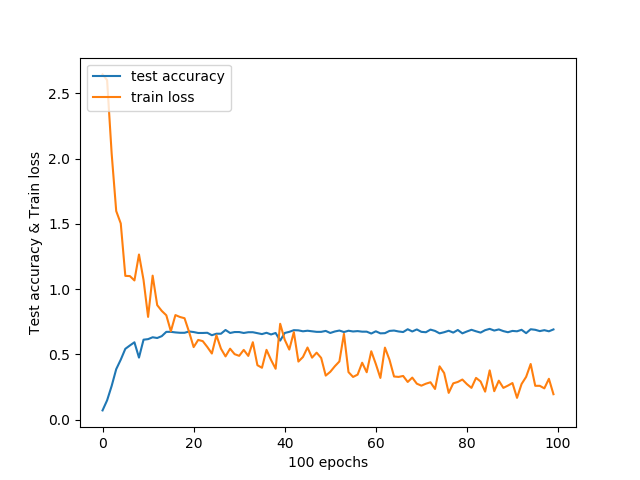
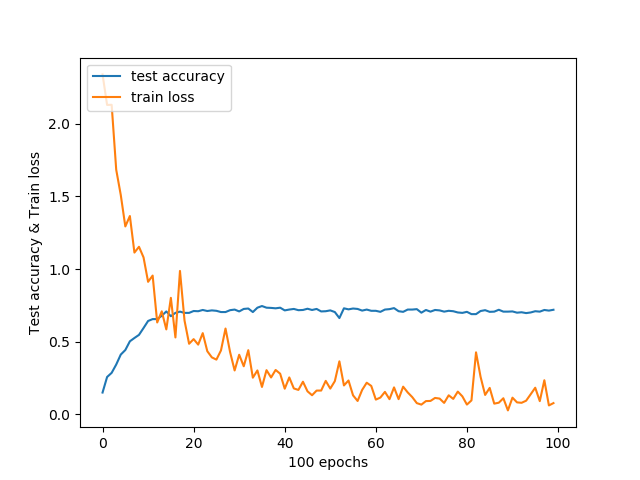
fixed byte processor

diff --git a/Project2/part B/q6b_q4.py b/Project2/part B/q6b_q4.py
@@ -7,6 +7,7 @@ import pylab as plt
 MAX_DOCUMENT_LENGTH = 100
 HIDDEN_SIZE = 20
 MAX_LABEL = 15
+EMBEDDING_SIZE = 20
 
 batch_size = 128
 no_epochs = 100
@@ -17,14 +18,19 @@ seed = 10
 tf.set_random_seed(seed)
 
 def rnn_model(x):
-  input_layer = tf.reshape(
-      tf.one_hot(x, 256), [-1, MAX_DOCUMENT_LENGTH, 256])
-  char_list = tf.unstack(input_layer, axis=1)
+
+  word_vectors = tf.contrib.layers.embed_sequence(
+      x, vocab_size=no_words, embed_dim=EMBEDDING_SIZE)
+  # print(word_vectors.shape) # (?,100,20)
+
+  word_list = tf.unstack(word_vectors, axis=1)
 
   cell = tf.nn.rnn_cell.GRUCell(HIDDEN_SIZE)
-  _, encoding = tf.nn.static_rnn(cell, char_list, dtype=tf.float32)
+  _, layer1 = tf.nn.static_rnn(cell, word_list, dtype=tf.float32)
 
-  logits = tf.layers.dense(encoding, MAX_LABEL, activation=None)
+  _, layer2 = tf.nn.static_rnn(cell, layer1, dtype=tf.float32)
+
+  logits = tf.layers.dense(layer2, MAX_LABEL, activation=None)
 
   return logits
 
@@ -52,18 +58,22 @@ def read_data_chars():
   x_test = pandas.Series(x_test)
   y_test = pandas.Series(y_test)
   
-  char_processor = tf.contrib.learn.preprocessing.ByteProcessor(MAX_DOCUMENT_LENGTH)
-  x_train = np.array(list(char_processor.fit_transform(x_train)))
-  x_test = np.array(list(char_processor.transform(x_test)))
+  #changed char to vocab processor.
+  vocab_processor = tf.contrib.learn.preprocessing.VocabularyProcessor(MAX_DOCUMENT_LENGTH)
+  x_train = np.array(list(vocab_processor.fit_transform(x_train)))
+  x_test = np.array(list(vocab_processor.transform(x_test)))
   y_train = y_train.values
   y_test = y_test.values
   
   
-  # print(x_train.shape)  # 5600,100
-  # print(y_train.shape)  # 5600
+  #print(x_train.shape)  5600,100
+  #print(y_train.shape)  5600
   
   # print(x_train)            
-  # print(np.amax(x_train))   #239
+  # print(np.amax(x_train))       #38657
+  global no_words
+  no_words = len(vocab_processor.vocabulary_)
+  # print(no_words)               #38658
   
   # print(y_test)         
   # print(y_test.shape) # (700,)
@@ -90,18 +100,7 @@ def main():
   # Optimizer
   labels = tf.one_hot(y_, MAX_LABEL)
   entropy = tf.reduce_mean(tf.nn.softmax_cross_entropy_with_logits_v2(labels=labels, logits=logits))
-  train_op = tf.train.AdamOptimizer(lr)
-
-
-  # set gradient clipping
-  clip_threshold = 2.0
-  
-  gradients, variables = zip(*train_op.compute_gradients(entropy))
-  gradients_clip, _ = tf.clip_by_global_norm(gradients, clip_threshold)
-  train_op = train_op.apply_gradients(zip(gradients_clip, variables))
-
-
-
+  train_op = tf.train.AdamOptimizer(lr).minimize(entropy)
 
   #accuracy
   correct_prediction = tf.cast(tf.equal(tf.argmax(logits, 1), tf.argmax(labels, 1)), tf.float32)
@@ -157,7 +156,7 @@ def main():
   plt.legend(['test accuracy', 'train loss'], loc='upper left')
 
     
-  plt.savefig('figures/q6c_q3clipping.png')
+  plt.savefig('figures/q6b_q4.png')
   plt.show()
   
   sess.close()

diff --git a/Project2/part B/q3.py b/Project2/part B/q3.py
@@ -52,22 +52,18 @@ def read_data_chars():
   x_test = pandas.Series(x_test)
   y_test = pandas.Series(y_test)
   
-  #changed char to vocab processor.
-  vocab_processor = tf.contrib.learn.preprocessing.VocabularyProcessor(MAX_DOCUMENT_LENGTH)
-  x_train = np.array(list(vocab_processor.fit_transform(x_train)))
-  x_test = np.array(list(vocab_processor.transform(x_test)))
+  char_processor = tf.contrib.learn.preprocessing.ByteProcessor(MAX_DOCUMENT_LENGTH)
+  x_train = np.array(list(char_processor.fit_transform(x_train)))
+  x_test = np.array(list(char_processor.transform(x_test)))
   y_train = y_train.values
   y_test = y_test.values
   
   
-  #print(x_train.shape)  5600,100
-  #print(y_train.shape)  5600
+  # print(x_train.shape)  # 5600,100
+  # print(y_train.shape)  # 5600
   
   # print(x_train)            
-  # print(np.amax(x_train))       #38657
-  global no_words
-  no_words = len(vocab_processor.vocabulary_)
-  # print(no_words)               #38658
+  # print(np.amax(x_train))   #239
   
   # print(y_test)         
   # print(y_test.shape) # (700,)

diff --git a/Project2/part B/q3_dropout.py b/Project2/part B/q3_dropout.py
@@ -57,22 +57,18 @@ def read_data_chars():
   x_test = pandas.Series(x_test)
   y_test = pandas.Series(y_test)
   
-  #changed char to vocab processor.
-  vocab_processor = tf.contrib.learn.preprocessing.VocabularyProcessor(MAX_DOCUMENT_LENGTH)
-  x_train = np.array(list(vocab_processor.fit_transform(x_train)))
-  x_test = np.array(list(vocab_processor.transform(x_test)))
+  char_processor = tf.contrib.learn.preprocessing.ByteProcessor(MAX_DOCUMENT_LENGTH)
+  x_train = np.array(list(char_processor.fit_transform(x_train)))
+  x_test = np.array(list(char_processor.transform(x_test)))
   y_train = y_train.values
   y_test = y_test.values
   
   
-  #print(x_train.shape)  5600,100
-  #print(y_train.shape)  5600
+  # print(x_train.shape)  # 5600,100
+  # print(y_train.shape)  # 5600
   
   # print(x_train)            
-  # print(np.amax(x_train))       #38657
-  global no_words
-  no_words = len(vocab_processor.vocabulary_)
-  # print(no_words)               #38658
+  # print(np.amax(x_train))   #239
   
   # print(y_test)         
   # print(y_test.shape) # (700,)

diff --git a/Project2/part B/q5.py b/Project2/part B/q5.py
@@ -3,22 +3,22 @@ import pylab as plt
 test_acc = [
     0.5985714,
     0.85,
-    0.69142854,
+    0.72,
     0.7871429,
     0.6414286,
     0.9028571,
-    0.66,
+    0.71,
     0.89,
 ]
 
 runtimes = [
     1106,
     183,
-    423,
+    439,
     141,
     1030,
     186,
-    425,
+    426,
     138,
 ]
 
